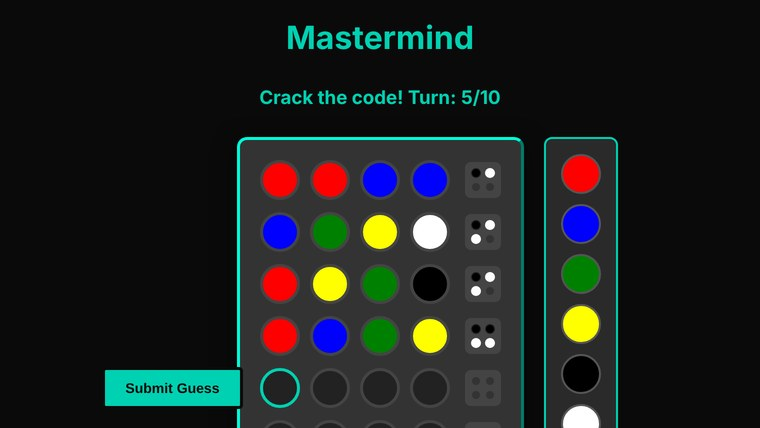
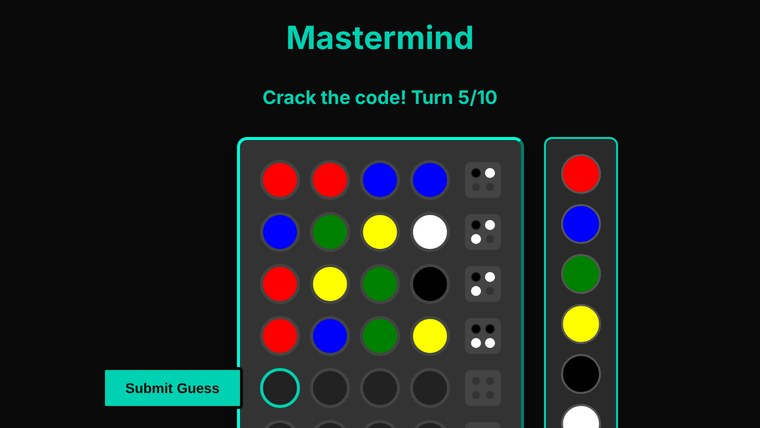
Mastermind: "Turn N/10" without colon; teal category page titles
- Singleplayer and multiplayer status lines now read "Crack the code!
  Turn N/10" and "Codebreaker is guessing. Turn N/10"; card pictures
  retaken to match.
- Category and sub-category page titles (.cat-hero h1) are now #00d1b2.

Claude-Session: https://claude.ai/code/session_01MNEAyjzWwttQUNML96NQD8

Changed region(s): [[0.3329, 0.2126, 0.6658, 0.243]]

diff --git a/mastermind/multiplayer/index.html b/mastermind/multiplayer/index.html
@@ -368,7 +368,7 @@ layout: null
               secret = lobby.secret;
               if (!gameOver) {
                 document.getElementById("status-text").innerText = turn > 0
-                  ? `Codebreaker is guessing. Turn: ${turn + 1}/10`
+                  ? `Codebreaker is guessing. Turn ${turn + 1}/10`
                   : "Secret code confirmed. Waiting for Codebreaker to guess...";
                 disableInput();
               }
@@ -378,7 +378,7 @@ layout: null
             if (lobby.secret) {
               secret = lobby.secret;
               if (!gameOver) {
-                document.getElementById("status-text").innerText = `Crack the code! Turn: ${turn + 1}/10`;
+                document.getElementById("status-text").innerText = `Crack the code! Turn ${turn + 1}/10`;
                 activateGuessRow();
               }
             } else {

diff --git a/mastermind/singleplayer/index.html b/mastermind/singleplayer/index.html
@@ -142,7 +142,7 @@ layout: null
 </div>
 
 <h1>Mastermind</h1>
-<p id="status-text" aria-live="polite">Crack the code! Turn: 1/10</p>
+<p id="status-text" aria-live="polite">Crack the code! Turn 1/10</p>
 <!-- Floating Help Icon -->
 <button id="help-btn" onclick="showRules()">?</button>
 
@@ -234,7 +234,7 @@ layout: null
     document.getElementById("status-text").innerText = text;
   }
   function activateRow() {
-    setStatus(`Crack the code! Turn: ${turn + 1}/10`);
+    setStatus(`Crack the code! Turn ${turn + 1}/10`);
     const row = document.getElementById(`row-${turn}`);
     row.classList.add("active");
     currentGuess = Array(4).fill(null);

diff --git a/catalog/catalog.css b/catalog/catalog.css
@@ -661,7 +661,7 @@ h1, h2, h3, h4 { margin: 0; letter-spacing: -0.02em; }
 .cat-switch a[aria-current="page"] { background: var(--accent); border-color: var(--accent); color: var(--bg); }
 
 .cat-hero { padding: 120px 0 10px; }
-.cat-hero h1, .cat-hero h2 { margin: 16px 0 10px; font-size: clamp(2.6rem, 7vw, 4.6rem); font-weight: 900; line-height: 1; }
+.cat-hero h1, .cat-hero h2 { margin: 16px 0 10px; color: var(--accent); font-size: clamp(2.6rem, 7vw, 4.6rem); font-weight: 900; line-height: 1; }
 .cat-hero .lead { margin: 0; max-width: 560px; color: var(--muted); font-size: 1.08rem; line-height: 1.6; }
 
 /* ---------- Responsive ---------- */
